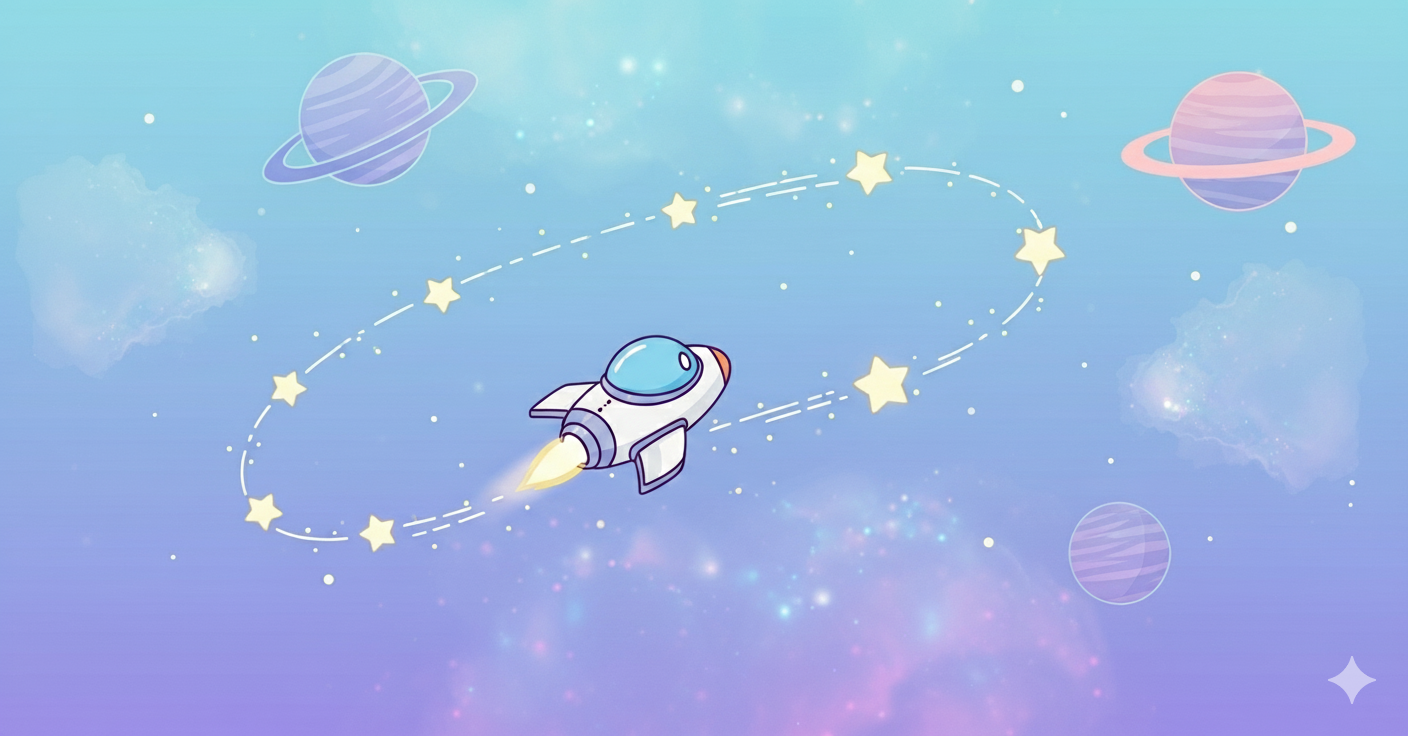
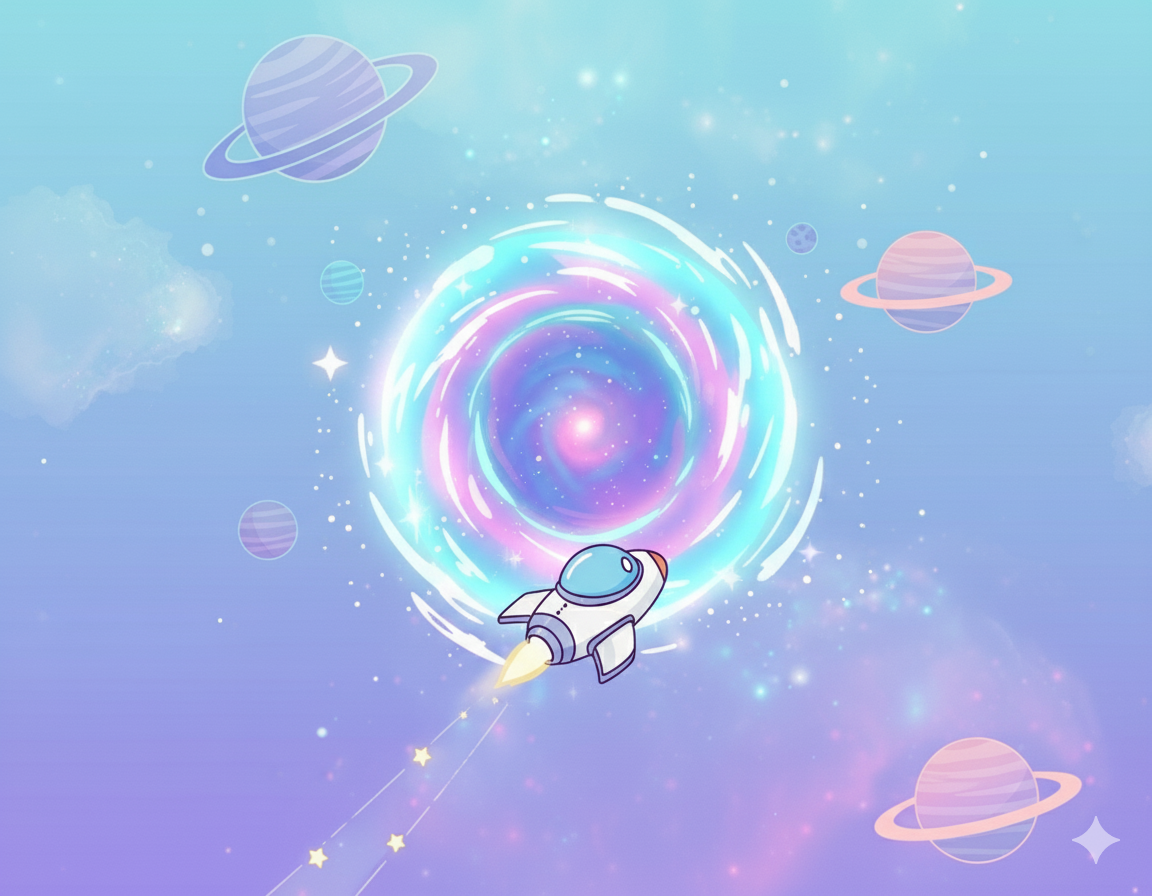
trabalhei na tela-navegacao

diff --git a/src/css/tela-navegacao.css b/src/css/tela-navegacao.css
@@ -1,0 +1,168 @@
+/* .tela-navegacao #interface {
+    position: absolute;
+    border-radius: 10px;
+    border: 10px solid #000000;
+    margin: auto;
+    width: 450px;
+    height: 900px;
+    top: 50%; 
+    left: 50%; 
+    transform: translate(-50%, -50%);
+} */
+
+.tela-navegacao {
+    background-image: url('../imagens/1.1.png');
+    /*  background-color: #1966ca4f; */
+    background-size: cover;
+    background-position: center;
+    background-repeat: no-repeat;
+    height: 100vh;
+    display: flex;
+    flex-direction: column;
+    justify-content: space-between;
+    /* justify-content: center; */
+    align-items: center;
+    padding-top: 30px;
+    padding-bottom: 30px;
+
+/* padding-top: 70px; */
+/* gap: 30px; */
+}
+
+/*.tela-navegacao .campo { 
+    position: relative;
+    padding-bottom: 100px; 
+    top: 05%;
+    left: 50%;
+    transform: translate(-50%, -50%); 
+     color: white; 
+    font-size: 50px; 
+     display: flex; 
+     margin-bottom: 40px; 
+     position: relative; 
+} */
+
+.tela-navegacao .barra {
+    position: static;
+    /* top: 30px; */
+    /* left: 50%;
+    transform: translate(-50%, 0); */
+    display: flex;
+    /* margin-bottom: -70px; */
+    /* top: 70px;
+    left: 50%;
+    transform: translateX(-50%); */
+    /* margin-bottom: 350px; */
+    justify-content: center;
+    /* margin-top: 70px; */
+    
+   align-items: center;
+   background-color: white;
+  border: 1px solid #ccc;
+  border-radius: 50px;
+  padding: 8px 15px;
+   width: 400px;
+   max-width: 90%;
+
+    box-shadow: 0 2px 8px rgba(0,0,0,0.08);
+    /* z-index: 10;  */
+}
+
+.barra .lupa {
+    position: static;
+    /* top: 06%;
+    left: 40%; */
+    /* transform: translate(-10%, -800%); */
+    width: 20px;
+    height: 20px;
+    /* margin-left: 10px; */
+
+
+    /* margin-left: -30px; */
+    /* display: flex;
+    align-content: center; */
+    /* display: flex; */
+    /* align-items: start; */
+
+
+
+    /* position: absolute; */
+  /*  width: 29px; */
+   /* left: 6px; */
+/*   width: 20px; */
+}
+
+.tela-navegacao input {
+    /* position: absolute; */
+    /* transform: translate(-45%, -26%); */
+    /* width: 392px; */
+    height: 35px;
+    /* width: 390px; */
+    /* height: 30px; */
+    /* background-color: transparent; */
+    /* border-color: white; */
+    border: 1px solid grey;
+    /* background: white; */
+    /* color: white; */
+    outline: none;
+  /*   display: flex; */
+    /* margin-bottom: 210%; */
+    
+    /* justify-content: center; */
+    width: 350px;
+    max-width: 90%;
+
+    /* flex-grow: 1;
+    margin-left: 10px;
+    font-size: 16px; */
+
+    border: none;
+}
+
+.tela-navegacao button {
+    /* position: absolute;
+    top: 65%;
+    left: 50%;
+    transform: translate(-50%, -50%); */
+    background-color: white;
+   /*  border: none; */
+    /* padding: 15px; */
+    /* width: 100px;
+    height: 60px */
+    ;
+    /* color: black; */
+    font-size: 20px;
+    cursor: pointer;
+    border-radius: 10px;
+    /* width: 300px;
+    padding: 20px; */
+    width: 300px;
+
+}
+
+.tela-navegacao button:hover {
+    background-color: deepskyblue;
+    transform: scale(1.05);
+    /* color: black; */
+}
+
+.casinha {
+    /* position: absolute;
+    top: 90%;
+    left: 42%; */
+    /* transform: translate(-50%, -50%); */
+    width: 80px;
+    cursor: pointer;
+    /* height: auto; */
+    /* padding-top: 100px; */
+  
+   /*  display: flex;
+    align-content: center;
+    justify-content: center;
+   margin-bottom: 0; */
+}
+
+.casinha:hover {
+    transform: scale(1.1);
+
+}

diff --git a/index.html b/index.html
@@ -9,7 +9,7 @@
   <link rel="stylesheet" href="./src/css/globals.css">
   <link rel="stylesheet" href="./src/css/tela-login.css">
   <link rel="stylesheet" href="./src/css/tela-principal.css">
-  <link rel="stylesheet" href="./src/css/tela3.css">
+  <link rel="stylesheet" href="./src/css/tela-navegacao.css">
   <link rel="stylesheet" href="./src/css/tela4.css">
   <link rel="stylesheet" href="./src/css/tela5.css">
   <link rel="stylesheet" href="./src/css/tela6.css">
@@ -19,8 +19,8 @@
   <link rel="stylesheet" href="./src/css/tela11.css">
   <link rel="stylesheet" href="./src/css/tela12.css">
   <title>Universe</title>
-</head>
- 
+</head> 
+  
 <body>
   <!-- <section class="tela-login">
     <div class="welcome">
@@ -31,35 +31,39 @@
         <p><label for="username" class="usuario">Usuário:</label>
           <input type="text" id="username" placeholder="Digite seu nome" />
         </p>
-        <p class="mensagem-erro">* campo obrigatório</p>
+        <p class="mensagem-erro">* preencha este campo</p>
 
         <p><label for="email" class="email">Email:</label>
           <input type="text" id="email" placeholder="Digite seu email" />
         </p>
-        <p class="mensagem-erro">* campo obrigatório</p>
+        <p class="mensagem-erro">* preencha este campo</p>
         <p><button type="submit" class="button">Entrar</button></p>
       </form>
   </section> -->
 
-  <section class="tela-principal">
-    <!-- <img src="./src/imagens/tela2.jpg" id="interface"> -->
+  <!-- <section class="tela-principal">
      <div class="text">
       <h2>O que vamos explorar hoje?</h2>
       <p>Selecione seu destino</p>
      </div>
-     
     <div class="guia">
       <button type="button">Navegação Espacial</button>
       <button type="button">Tutorial</button>
     </div>
-  </section>
+  </section> -->
 
-  <section id="tela3">
-    <img src="./src/imagens/tela03.png" id="interface">
-    <div id="barra"><input type="text" name="Nome" /></div>
-    <img src="./src/imagens/lupa.jpg" id="Ima">
-    <p><a href="#tela4"><button type="button" id="button">Menu</button></a></p>
-    <div id="casinha"><a href="#tela2"><img src="./src/imagens/button.png" id="casinha"></a></div>
+  <section class="tela-navegacao">
+    <!-- <img src="./src/imagens/tela03.png" id="interface"> -->
+    <div class="barra">
+      <input type="text" name="Nome"/>
+      <img src="./src/imagens/lupa.jpg" class="lupa">
+    </div>
+
+    <img src="./src/imagens/astronauta.png" alt="Astronauta">
+    <button type="button" class="button">Menu</button>
+    <div class="casinha">
+      <img src="./src/imagens/casinha.png" class="casinha">
+    </div>
   </section>
 
   <section id="tela4" class="generic-button-screen">

diff --git a/src/css/globals.css b/src/css/globals.css
@@ -5,7 +5,7 @@
 /* Esconde todas as seções por padrão - você pode mudar isso */
 body {
     height: 100vh;
-}
+} 
 
 body>section {
     display: none;
@@ -14,7 +14,7 @@ body>section {
 /* Mostra a primeira seção por padrão - você pode mudar isso */
 /* body>section:first-of-type {
     display: block;
-}  */
+}  */ 
  
 /* --- Estilos Comuns para Telas 4, 5, 6, 7, 10 --- */
 .generic-button-screen #interface {

diff --git a/src/css/tela-principal.css b/src/css/tela-principal.css
@@ -1,6 +1,6 @@
 .tela-principal {
     background-image: url('../imagens/2.png');
-    background-color: #9cbbe4;
+    /* background-color: #9cbbe4; */
     background-size: cover;
     background-position: center;
     background-repeat: no-repeat;
@@ -9,7 +9,7 @@
     flex-direction: column;
     justify-content: center;
     align-items: center;
-}
+} 
 
 .guia {  
     display: flex;

diff --git a/src/css/tela-login.css b/src/css/tela-login.css
@@ -8,7 +8,7 @@
     left: 50%;
     transform: translate(-50%, -50%);
 } */ 
-
+ 
 .tela-login {
     background-image: url('../imagens/tela-login.png');
     background-color: #9cbbe4;
